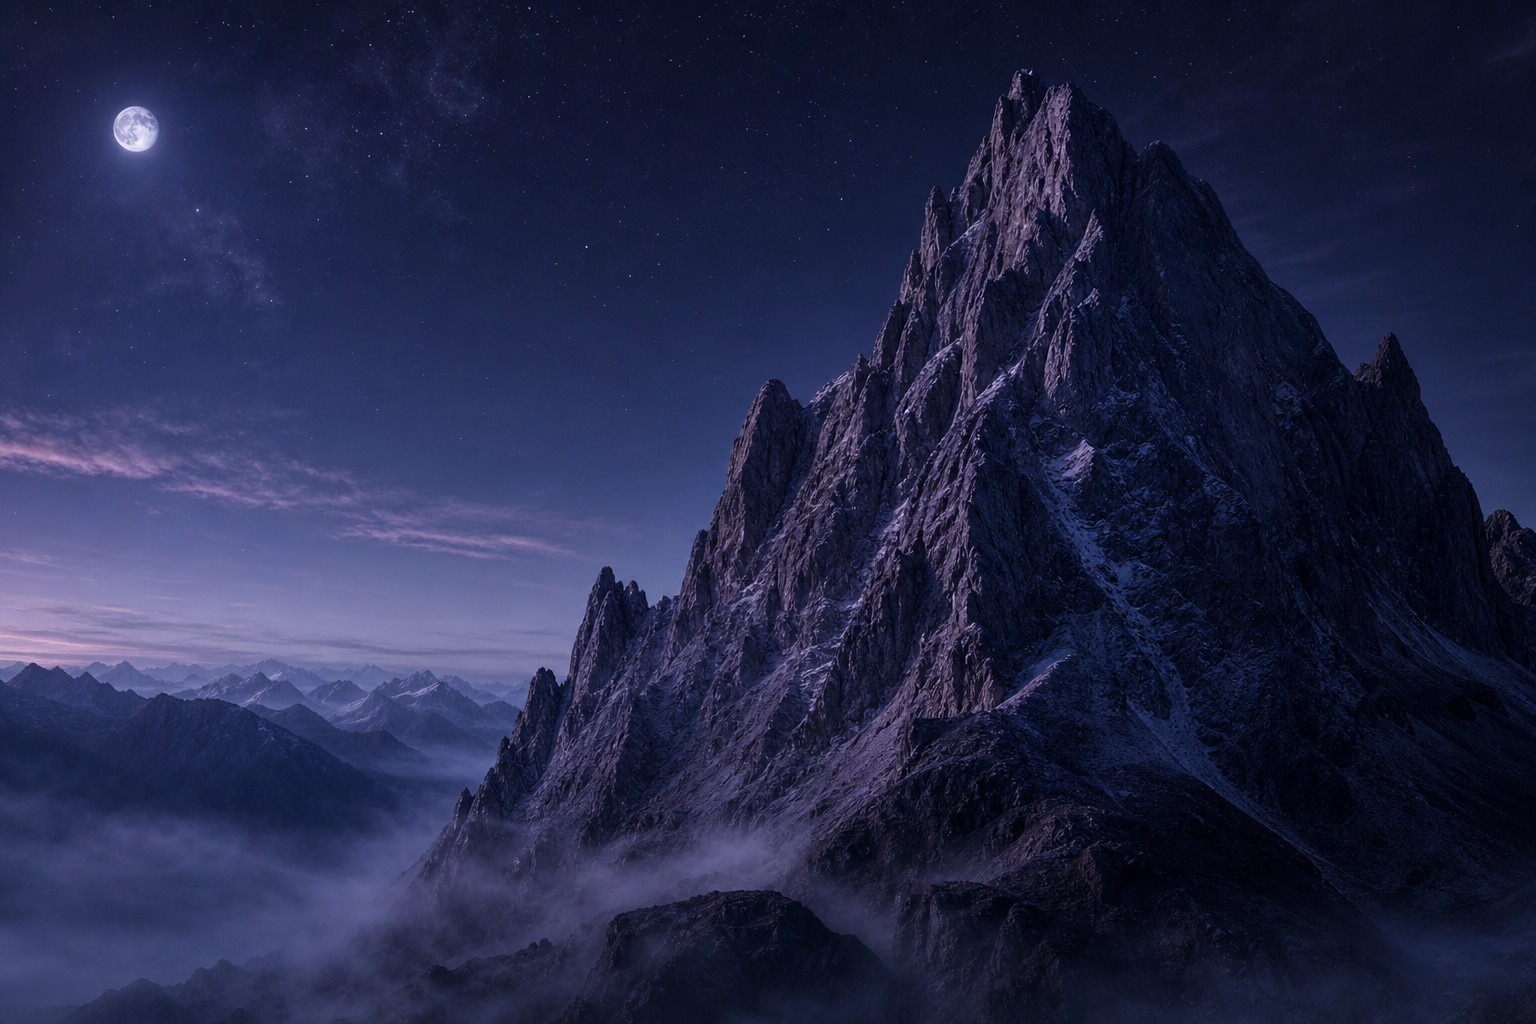
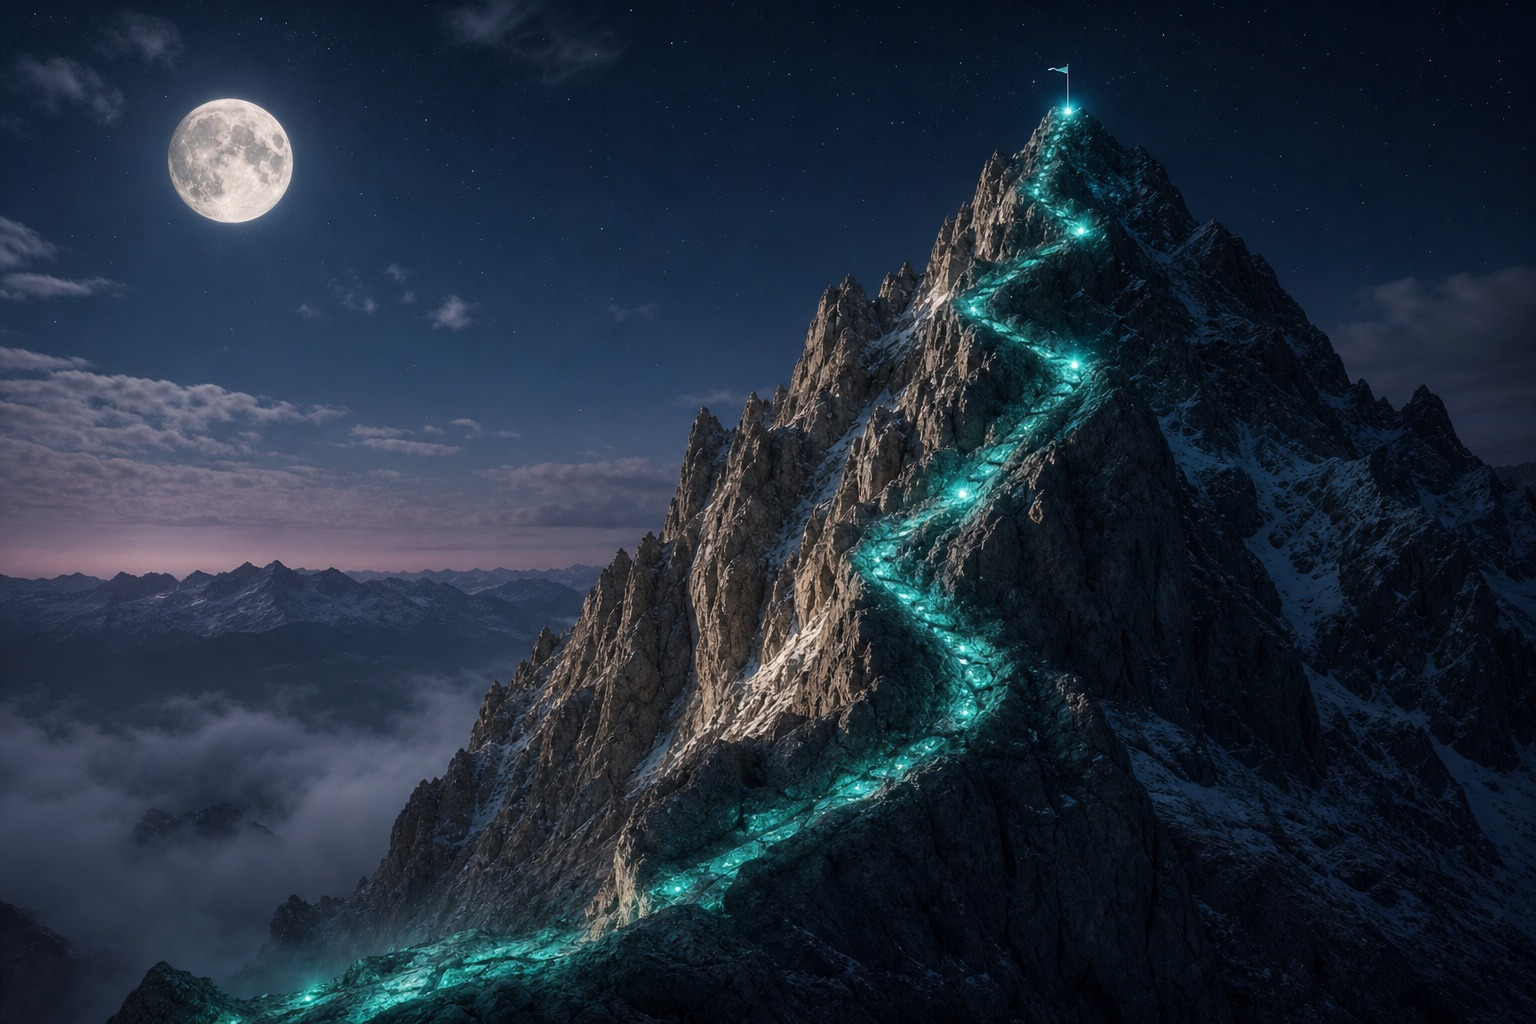
fix: supabase env config

diff --git a/frontend/css/sebs-home.css b/frontend/css/sebs-home.css
@@ -1200,8 +1200,8 @@
   inset: 0;
   pointer-events: none;
   background:
-    radial-gradient(ellipse 80% 65% at 52% 48%, transparent 42%, rgba(3, 7, 18, 0.42) 100%),
-    linear-gradient(180deg, rgba(15, 23, 42, 0.12) 0%, transparent 30%, rgba(3, 7, 18, 0.28) 100%);
+    radial-gradient(ellipse 75% 60% at 50% 50%, transparent 50%, rgba(3, 7, 18, 0.32) 100%),
+    linear-gradient(180deg, rgba(15, 23, 42, 0.08) 0%, transparent 35%, rgba(3, 7, 18, 0.22) 100%);
   z-index: 2;
 }
 
@@ -1211,88 +1211,58 @@
   height: 100%;
 }
 
-.sh-mountain-viz__route {
-  mix-blend-mode: screen;
+/* Yol fotoğrafta gömülü; SVG yalnızca rehber + etkileşim */
+.sh-mountain-viz__trail-guide {
+  fill: none;
+  stroke: transparent;
+  stroke-width: 1;
+  pointer-events: none;
 }
 
-.sh-mountain-viz__start-aura {
+.sh-mountain-viz__trail-pulse {
+  fill: none;
+  stroke: rgba(186, 230, 253, 0.65);
+  stroke-width: 5;
+  stroke-linecap: round;
+  stroke-linejoin: round;
+  opacity: 0;
+  mix-blend-mode: soft-light;
+  filter: blur(1px);
+  transition: opacity 0.4s ease;
+}
+
+.sh-mountain-viz.is-paused .sh-mountain-viz__trail-pulse {
   opacity: 0.85;
 }
 
-.sh-mountain-viz__trail-outer {
-  fill: none;
-  stroke: rgba(103, 232, 249, 0.22);
-  stroke-width: 28;
-  stroke-linecap: round;
-  stroke-linejoin: round;
-  filter: url(#sh-mt-trail-blur);
-  opacity: 0.7;
-}
-
-.sh-mountain-viz__trail-base {
-  fill: none;
-  stroke: rgba(34, 211, 238, 0.32);
-  stroke-width: 14;
-  stroke-linecap: round;
-  stroke-linejoin: round;
-}
-
-.sh-mountain-viz__trail {
-  fill: none;
-  stroke: url(#sh-mt-trail-grad);
-  stroke-width: 7;
-  stroke-linecap: round;
-  stroke-linejoin: round;
-  filter: url(#sh-mt-trail-glow);
-}
-
-.sh-mountain-viz:not(.is-animated) .sh-mountain-viz__trail {
-  stroke-dashoffset: 0;
-}
-
-.sh-mountain-viz.is-animated .sh-mountain-viz__trail {
-  animation: sh-mountain-draw 5.5s var(--sh-ease) infinite;
-}
-
-.sh-mountain-viz.is-paused .sh-mountain-viz__trail {
-  animation: none;
-}
-
-@keyframes sh-mountain-draw {
-  0% {
-    stroke-dashoffset: var(--sh-mt-len, 1000);
-  }
-  100% {
-    stroke-dashoffset: 0;
-  }
-}
-
-.sh-mountain-viz__flag {
-  filter: url(#sh-mt-flag-glow);
-}
-
 .sh-mountain-viz__marker {
-  fill: rgba(148, 163, 184, 0.22);
-  stroke: rgba(255, 255, 255, 0.35);
-  stroke-width: 3;
-  opacity: 0.75;
-  transition: fill 0.35s ease, stroke 0.35s ease, opacity 0.35s ease, filter 0.35s ease;
+  fill: rgba(15, 23, 42, 0.4);
+  stroke: rgba(255, 255, 255, 0.5);
+  stroke-width: 2.5;
+  opacity: 0.32;
+  filter: url(#sh-mt-marker-depth);
+  transition: fill 0.35s ease, stroke 0.35s ease, opacity 0.35s ease, r 0.35s ease;
 }
 
 .sh-mountain-viz__marker.is-start,
 .sh-mountain-viz__marker.is-active {
   fill: url(#sh-mt-marker-core);
-  stroke: rgba(255, 255, 255, 0.85);
+  stroke: rgba(255, 255, 255, 0.9);
   opacity: 1;
-  filter: drop-shadow(0 0 18px rgba(103, 232, 249, 0.85));
 }
 
-.sh-mountain-viz__marker.is-start {
-  stroke-width: 4;
+.sh-mountain-viz.is-animated .sh-mountain-viz__marker.is-start {
+  animation: sh-mt-marker-pulse 2.6s ease-in-out infinite;
 }
 
-.sh-mountain-viz__marker.is-active:not(.is-start) {
-  fill: url(#sh-mt-marker-core);
+@keyframes sh-mt-marker-pulse {
+  0%,
+  100% {
+    opacity: 0.72;
+  }
+  50% {
+    opacity: 1;
+  }
 }
 
 .sh-mountain-viz__labels {
@@ -1322,26 +1292,11 @@
 .sh-mountain-viz__runner {
   fill: #f0f9ff;
   opacity: 0;
-  filter: drop-shadow(0 0 8px rgba(103, 232, 249, 1));
-}
-
-.sh-mountain-viz.is-animated .sh-mountain-viz__runner {
-  opacity: 1;
-  offset-distance: 0%;
-  animation: sh-mountain-runner 5.5s var(--sh-ease) infinite;
+  filter: drop-shadow(0 0 6px rgba(103, 232, 249, 0.8));
 }
 
 .sh-mountain-viz.is-paused .sh-mountain-viz__runner {
-  animation: none;
-}
-
-@keyframes sh-mountain-runner {
-  0% {
-    offset-distance: 0%;
-  }
-  100% {
-    offset-distance: 100%;
-  }
+  opacity: 0.9;
 }
 
 .sh-path-card h3 {
@@ -1803,15 +1758,12 @@
     transform: none;
   }
 
-  .sh-mountain-viz.is-animated .sh-mountain-viz__trail,
-  .sh-mountain-viz.is-animated .sh-mountain-viz__runner {
+  .sh-mountain-viz.is-animated .sh-mountain-viz__marker.is-start {
     animation: none;
+    opacity: 1;
   }
 
-  .sh-mountain-viz.is-animated .sh-mountain-viz__trail {
-    stroke-dashoffset: 0;
-  }
-
+  .sh-mountain-viz__trail-pulse,
   .sh-mountain-viz__runner {
     opacity: 0;
   }

diff --git a/frontend/index.html b/frontend/index.html
@@ -27,7 +27,7 @@
   <link rel="preconnect" href="https://fonts.gstatic.com" crossorigin />
   <link rel="stylesheet" href="/css/sebs-design-system.css?v=3" />
   <link rel="stylesheet" href="/css/sebs-home-tokens.css?v=2" />
-  <link rel="stylesheet" href="/css/sebs-home.css?v=17" />
+  <link rel="stylesheet" href="/css/sebs-home.css?v=18" />
   <link rel="icon" type="image/png" href="/images/SEBS.png" />
   <noscript><style>.sh-reveal,.sh-hero-flow.sh-reveal{opacity:1!important;transform:none!important}</style></noscript>
 </head>
@@ -320,36 +320,13 @@
           <div class="sh-mountain-viz" id="shMountainViz" role="img" aria-label="Kariyer yolculuğu: dağ zirvesine uzanan animasyonlu yol">
             <svg class="sh-mountain-viz__stage" viewBox="0 0 1536 1024" preserveAspectRatio="xMidYMid slice" aria-hidden="true" focusable="false">
               <defs>
-                <linearGradient id="sh-mt-trail-grad" gradientUnits="userSpaceOnUse" x1="468" y1="972" x2="1138" y2="174">
-                  <stop offset="0%" stop-color="#0891b2" />
-                  <stop offset="40%" stop-color="#22d3ee" />
-                  <stop offset="100%" stop-color="#f0f9ff" />
-                </linearGradient>
                 <radialGradient id="sh-mt-marker-core" cx="50%" cy="50%" r="50%">
-                  <stop offset="0%" stop-color="#f8fafc" />
-                  <stop offset="55%" stop-color="#a5f3fc" />
-                  <stop offset="100%" stop-color="#22d3ee" stop-opacity="0.35" />
+                  <stop offset="0%" stop-color="#f8fafc" stop-opacity="0.95" />
+                  <stop offset="70%" stop-color="#67e8f9" stop-opacity="0.45" />
+                  <stop offset="100%" stop-color="#0891b2" stop-opacity="0" />
                 </radialGradient>
-                <radialGradient id="sh-mt-start-glow" cx="50%" cy="50%" r="50%">
-                  <stop offset="0%" stop-color="#e0f2fe" stop-opacity="0.55" />
-                  <stop offset="100%" stop-color="#22d3ee" stop-opacity="0" />
-                </radialGradient>
-                <filter id="sh-mt-trail-blur" x="-30%" y="-30%" width="160%" height="160%">
-                  <feGaussianBlur stdDeviation="14" />
-                </filter>
-                <filter id="sh-mt-trail-glow" x="-40%" y="-40%" width="180%" height="180%">
-                  <feGaussianBlur stdDeviation="5" result="b" />
-                  <feMerge>
-                    <feMergeNode in="b" />
-                    <feMergeNode in="SourceGraphic" />
-                  </feMerge>
-                </filter>
-                <filter id="sh-mt-flag-glow" x="-100%" y="-100%" width="300%" height="300%">
-                  <feGaussianBlur stdDeviation="4" result="b" />
-                  <feMerge>
-                    <feMergeNode in="b" />
-                    <feMergeNode in="SourceGraphic" />
-                  </feMerge>
+                <filter id="sh-mt-marker-depth">
+                  <feDropShadow dx="0" dy="3" stdDeviation="4" flood-color="#020617" flood-opacity="0.75" />
                 </filter>
                 <filter id="sh-mt-text-shadow">
                   <feDropShadow dx="0" dy="2" stdDeviation="4" flood-color="#020617" flood-opacity="0.9" />
@@ -363,33 +340,21 @@
                 preserveAspectRatio="xMidYMid slice"
               />
               <g class="sh-mountain-viz__route">
-                <ellipse class="sh-mountain-viz__start-aura" cx="468" cy="972" rx="200" ry="120" fill="url(#sh-mt-start-glow)" />
                 <path
-                  class="sh-mountain-viz__trail-outer"
-                  d="M 468 972 C 518 902, 578 812, 638 732 C 698 652, 752 576, 808 502 C 862 430, 916 358, 972 286 C 1022 232, 1078 196, 1138 174"
-                />
-                <path
-                  class="sh-mountain-viz__trail-base"
-                  d="M 468 972 C 518 902, 578 812, 638 732 C 698 652, 752 576, 808 502 C 862 430, 916 358, 972 286 C 1022 232, 1078 196, 1138 174"
-                />
-                <path
-                  class="sh-mountain-viz__trail"
                   id="shMountainTrail"
-                  d="M 468 972 C 518 902, 578 812, 638 732 C 698 652, 752 576, 808 502 C 862 430, 916 358, 972 286 C 1022 232, 1078 196, 1138 174"
+                  class="sh-mountain-viz__trail-guide"
+                  d="M 252 968 L 362 878 L 302 798 L 442 698 L 382 618 L 522 518 L 462 438 L 602 348 L 542 268 L 682 208 L 622 178 L 762 158 L 852 142"
                 />
-                <g class="sh-mountain-viz__flag" transform="translate(1136, 168)">
-                  <line x1="0" y1="0" x2="0" y2="34" stroke="rgba(255,255,255,0.92)" stroke-width="2.5" stroke-linecap="round" />
-                  <path d="M0 0 L20 7 L0 14 Z" fill="#f8fafc" />
-                </g>
-                <circle class="sh-mountain-viz__marker is-start" data-path-step="0" cx="468" cy="972" r="28" />
-                <circle class="sh-mountain-viz__marker" data-path-step="1" cx="752" cy="576" r="17" />
-                <circle class="sh-mountain-viz__marker" data-path-step="2" cx="916" cy="358" r="17" />
-                <circle class="sh-mountain-viz__runner" r="11" />
+                <path class="sh-mountain-viz__trail-pulse" d="M 252 968 L 362 878 L 302 798 L 442 698 L 382 618 L 522 518 L 462 438 L 602 348 L 542 268 L 682 208 L 622 178 L 762 158 L 852 142" />
+                <circle class="sh-mountain-viz__marker is-start" data-path-step="0" cx="252" cy="968" r="22" />
+                <circle class="sh-mountain-viz__marker" data-path-step="1" cx="522" cy="518" r="14" />
+                <circle class="sh-mountain-viz__marker" data-path-step="2" cx="682" cy="208" r="14" />
+                <circle class="sh-mountain-viz__runner" r="8" />
               </g>
               <g class="sh-mountain-viz__labels" filter="url(#sh-mt-text-shadow)">
-                <text class="sh-mountain-viz__label" data-path-step="0" x="468" y="1046" text-anchor="middle">İlk Adım</text>
-                <text class="sh-mountain-viz__label" data-path-step="1" x="798" y="582">Yükseliş</text>
-                <text class="sh-mountain-viz__label" data-path-step="2" x="962" y="364">Zirve</text>
+                <text class="sh-mountain-viz__label" data-path-step="0" x="252" y="1042" text-anchor="middle">İlk Adım</text>
+                <text class="sh-mountain-viz__label" data-path-step="1" x="568" y="524">Yükseliş</text>
+                <text class="sh-mountain-viz__label" data-path-step="2" x="728" y="214">Zirve</text>
               </g>
             </svg>
           </div>
@@ -559,6 +524,6 @@
   <script src="/js/supabase-client.js"></script>
   <script src="/js/supabase-auth.js?v=2.2"></script>
   <script src="/js/navigation.js?v=3.7" defer></script>
-  <script src="/js/sebs-home.js?v=15" defer></script>
+  <script src="/js/sebs-home.js?v=16" defer></script>
 </body>
 </html>

diff --git a/frontend/js/sebs-home.js b/frontend/js/sebs-home.js
@@ -32,24 +32,27 @@
   function initMountainPath() {
     var viz = document.getElementById('shMountainViz');
     var trail = document.getElementById('shMountainTrail');
+    var trailPulse = viz ? viz.querySelector('.sh-mountain-viz__trail-pulse') : null;
     var cards = document.querySelectorAll('.sh-path-card[data-path-step]');
     if (!viz || !trail || !cards.length) return;
 
     var pathD = trail.getAttribute('d');
-    var pathSteps = [0.02, 0.46, 0.72];
+    var pathSteps = [0.04, 0.48, 0.74];
     var labelOffsets = [
       { dx: 0, dy: 74, anchor: 'middle' },
-      { dx: 46, dy: 6, anchor: 'start' },
-      { dx: 46, dy: 6, anchor: 'start' }
+      { dx: 44, dy: 6, anchor: 'start' },
+      { dx: 44, dy: 6, anchor: 'start' }
     ];
 
     function syncPathAnchors() {
       var lenNow = trail.getTotalLength();
       var markers = viz.querySelectorAll('.sh-mountain-viz__marker');
       var labels = viz.querySelectorAll('.sh-mountain-viz__label');
-      var flag = viz.querySelector('.sh-mountain-viz__flag');
-      var startAura = viz.querySelector('.sh-mountain-viz__start-aura');
       var runner = viz.querySelector('.sh-mountain-viz__runner');
+
+      if (trailPulse && pathD) {
+        trailPulse.setAttribute('d', pathD);
+      }
 
       pathSteps.forEach(function (ratio, i) {
         var pt = trail.getPointAtLength(lenNow * ratio);
@@ -64,14 +67,6 @@
         }
       });
 
-      var summit = trail.getPointAtLength(lenNow * 0.992);
-      if (flag) {
-        flag.setAttribute('transform', 'translate(' + (summit.x - 2) + ',' + (summit.y - 6) + ')');
-      }
-      if (startAura && markers[0]) {
-        startAura.setAttribute('cx', markers[0].getAttribute('cx'));
-        startAura.setAttribute('cy', markers[0].getAttribute('cy'));
-      }
       if (runner && pathD) {
         runner.style.offsetPath = "path('" + pathD + "')";
       }
@@ -81,8 +76,10 @@
 
     var len = trail.getTotalLength();
     var progresses = pathSteps.slice();
-    trail.style.strokeDasharray = len;
-    trail.style.strokeDashoffset = len;
+    if (trailPulse) {
+      trailPulse.style.strokeDasharray = len;
+      trailPulse.style.strokeDashoffset = String(len);
+    }
     viz.style.setProperty('--sh-mt-len', String(len));
 
     var markers = viz.querySelectorAll('.sh-mountain-viz__marker');
@@ -105,7 +102,9 @@
 
     function setProgress(p) {
       var offset = len * (1 - Math.min(1, Math.max(0, p)));
-      trail.style.strokeDashoffset = String(offset);
+      if (trailPulse) {
+        trailPulse.style.strokeDashoffset = String(offset);
+      }
       if (runner) {
         runner.style.offsetDistance = Math.round(p * 100) + '%';
         runner.style.opacity = '1';
@@ -128,7 +127,9 @@
     function resumeAnimation() {
       paused = false;
       viz.classList.remove('is-paused');
-      trail.style.strokeDashoffset = '';
+      if (trailPulse) {
+        trailPulse.style.strokeDashoffset = String(len);
+      }
       if (runner) {
         runner.style.offsetDistance = '';
         runner.style.opacity = '';
@@ -140,9 +141,10 @@
       activateStep(0, false);
     } else {
       viz.classList.remove('is-animated');
-      setProgress(1);
-      activateStep(2, true);
-      viz.classList.remove('is-paused');
+      if (trailPulse) {
+        trailPulse.style.strokeDashoffset = '0';
+      }
+      activateStep(2, false);
     }
 
     cards.forEach(function (card) {